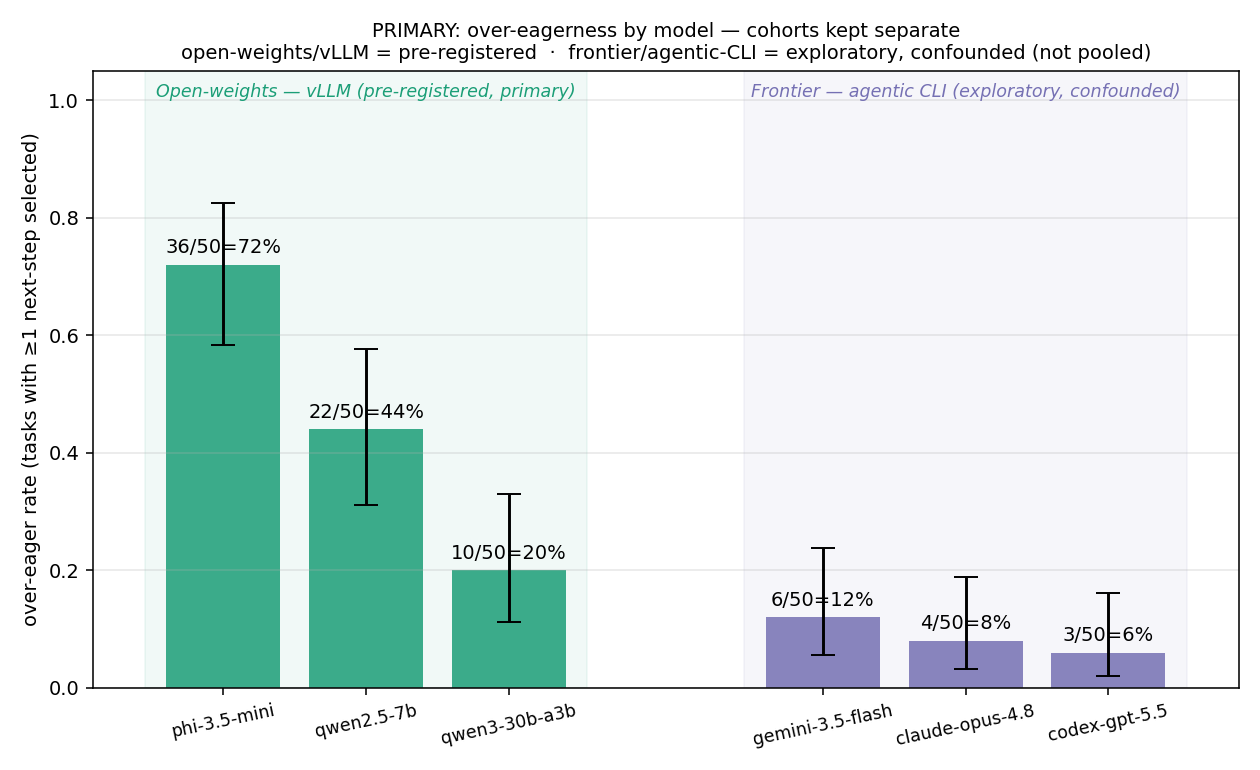
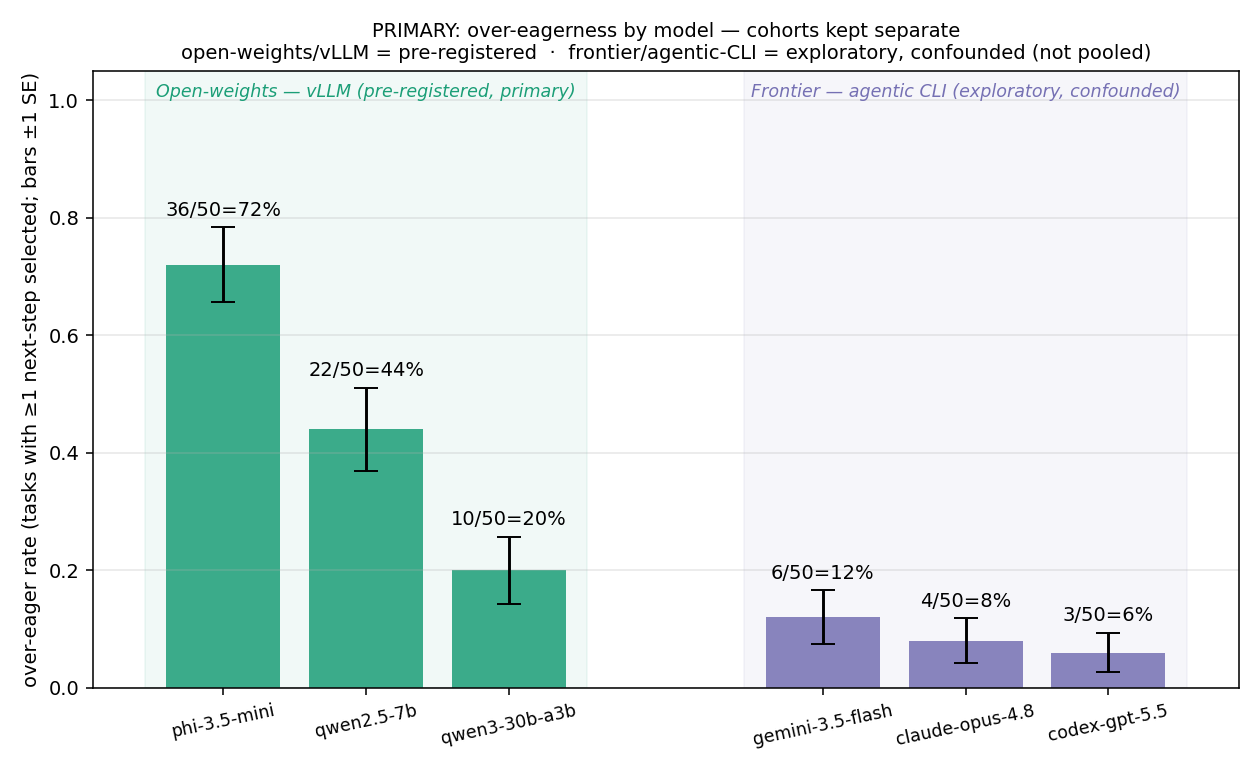
Primary bar chart: show ±1 standard error instead of 95% Wilson CI
step3_overeager_rate.png error bars now show ±1 SE of the proportion
(sqrt(p(1-p)/n)) per the request; y-label notes "bars ±1 SE". Bars/heights and
the cohort split are unchanged. The step3_analyze.py text report still prints the
95% Wilson CI table (unchanged).

diff --git a/src/step3_plot.py b/src/step3_plot.py
@@ -66,16 +66,17 @@ def main():
     for m in names:
         rows = models[m]; n = len(rows); cid = cohort_of(m)
         k = sum(1 for r in rows if r["n_overeager"] > 0)
-        lo, hi = wilson(k, n)
-        ax.bar(xpos[m], k/n, color=CCOLOR[cid], alpha=0.85, width=0.8)
-        ax.errorbar(xpos[m], k/n, yerr=[[k/n-lo], [hi-k/n]], color="black", capsize=6, lw=1.5)
-        ax.text(xpos[m], k/n+0.02, f"{k}/{n}={k/n:.0%}", ha="center", fontsize=10)
+        p = k / n
+        se = math.sqrt(p * (1 - p) / n)            # standard error of the proportion
+        ax.bar(xpos[m], p, color=CCOLOR[cid], alpha=0.85, width=0.8)
+        ax.errorbar(xpos[m], p, yerr=[[min(se, p)], [se]], color="black", capsize=6, lw=1.5)
+        ax.text(xpos[m], p + se + 0.02, f"{k}/{n}={p:.0%}", ha="center", fontsize=10)
     for cid, a, b in groups:
         ax.axvspan(a-0.55, b+0.55, color=CCOLOR[cid], alpha=0.06, zorder=0)
         ax.text((a+b)/2, top-0.02, COHORTS[cid]["label"], ha="center", va="top",
                 fontsize=9, style="italic", color=CCOLOR[cid])
     ax.set_xticks([xpos[m] for m in names]); ax.set_xticklabels(names, rotation=12, fontsize=9)
-    ax.set_ylabel("over-eager rate (tasks with ≥1 next-step selected)")
+    ax.set_ylabel("over-eager rate (tasks with ≥1 next-step selected; bars ±1 SE)")
     ax.set_ylim(0, top)
     ax.set_title("PRIMARY: over-eagerness by model — cohorts kept separate\n"
                  "open-weights/vLLM = pre-registered  ·  frontier/agentic-CLI = exploratory, confounded "